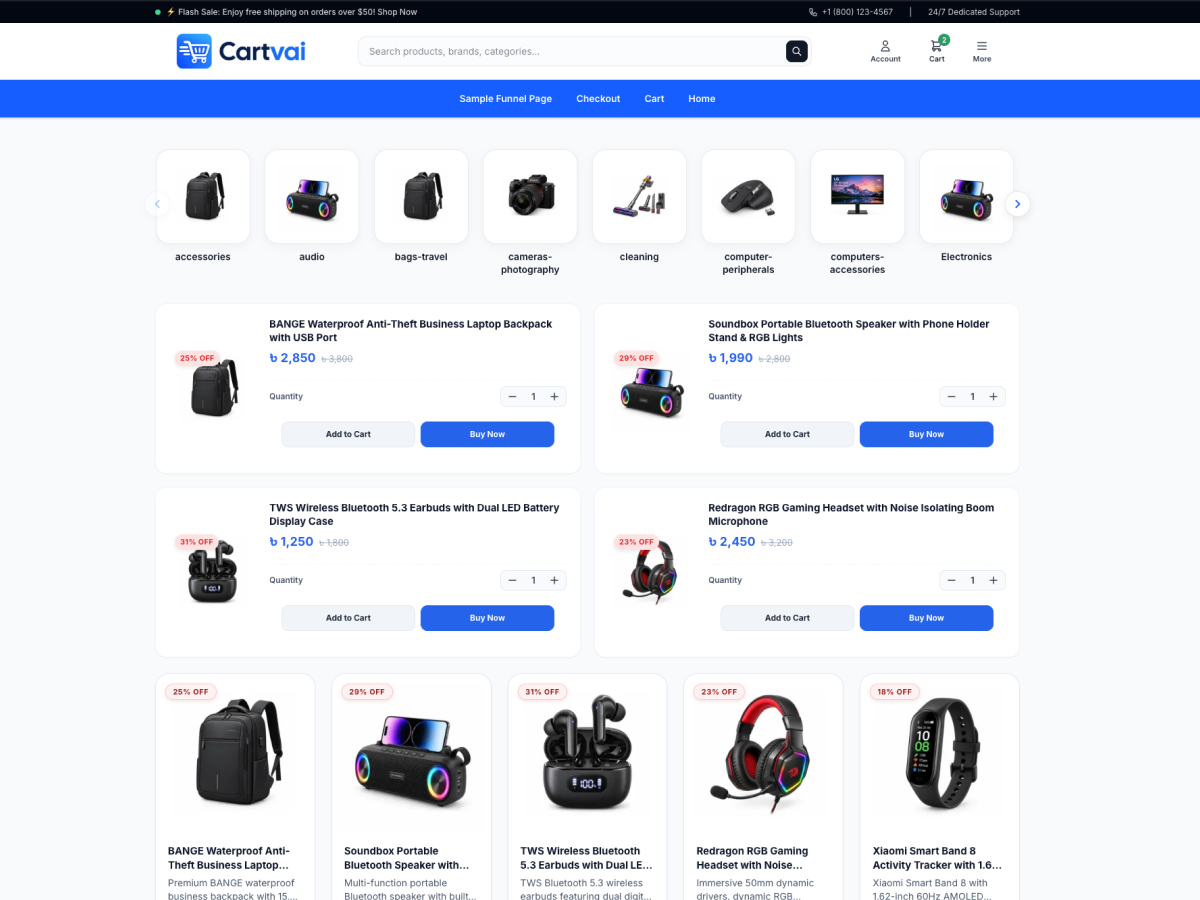
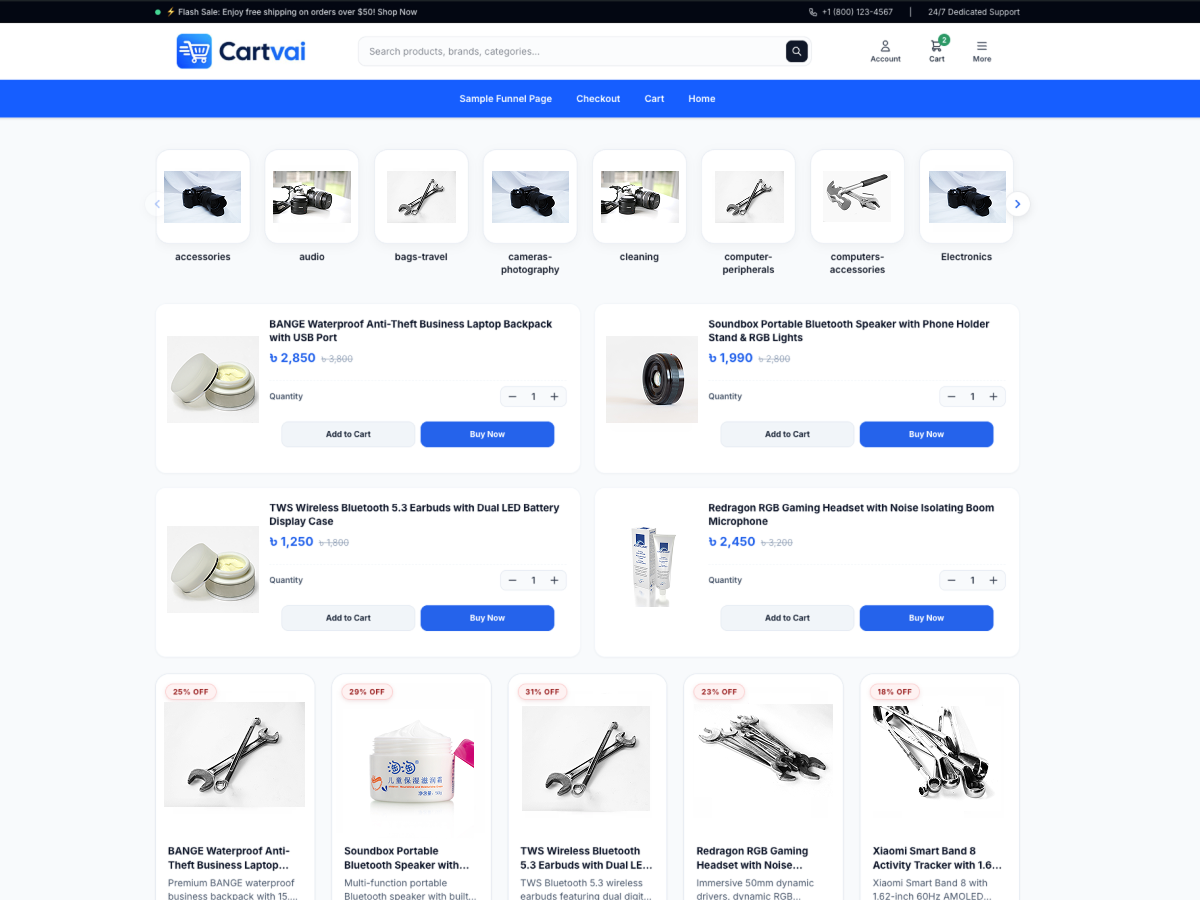
Update Tested up to WordPress 7.1

diff --git a/style.css b/style.css
@@ -6,7 +6,7 @@ Author URI: https://cartvai.com
 Description: A modern, high-performance base ecommerce theme built specifically for Cartvai. Hybrid classic architecture powered by Tailwind CSS v4.
 Version: 1.2.0
 Requires at least: 6.2
-Tested up to: 6.7
+Tested up to: 7.1
 Requires PHP: 7.4
 License: GNU General Public License v2 or later
 License URI: https://www.gnu.org/licenses/gpl-2.0.html
